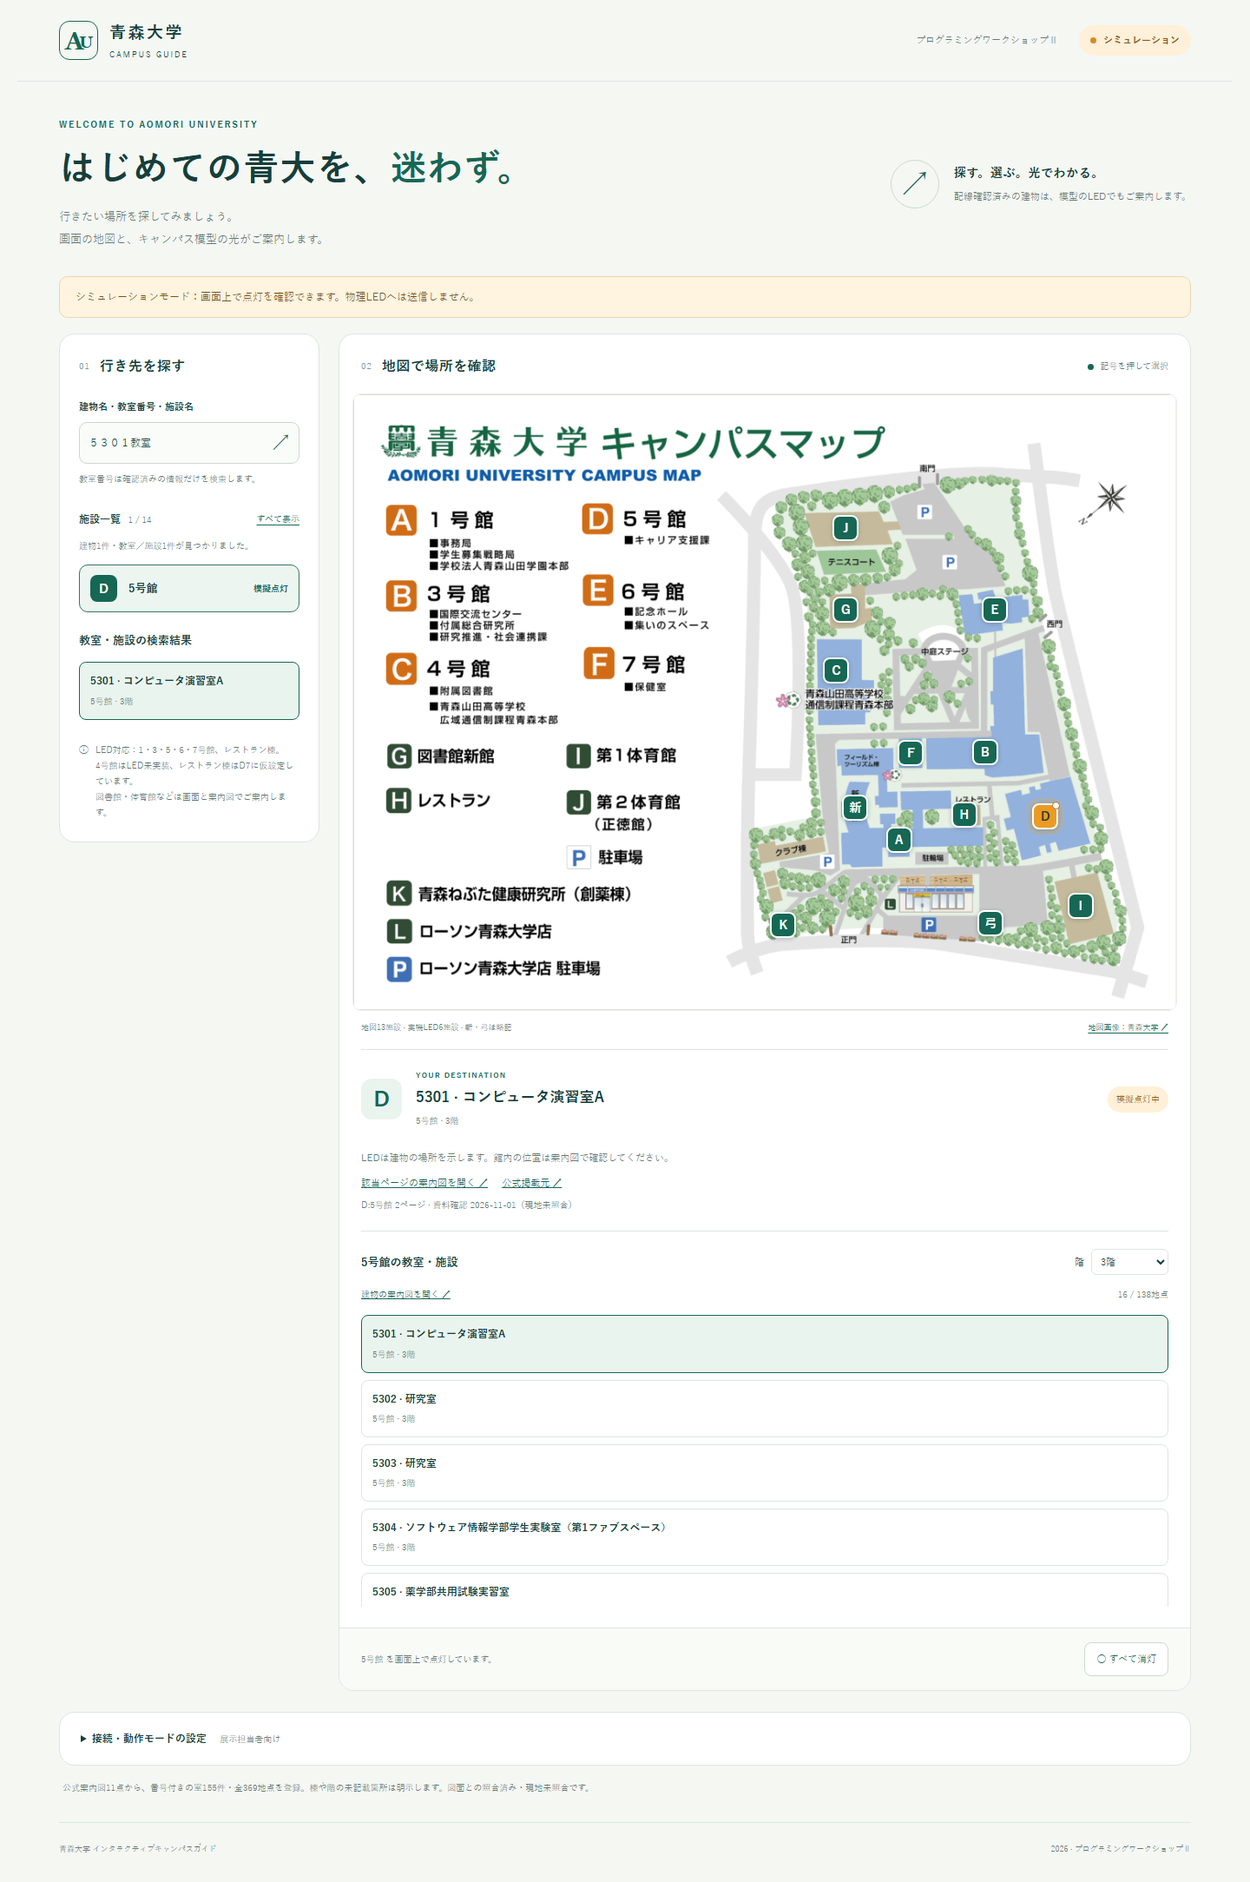
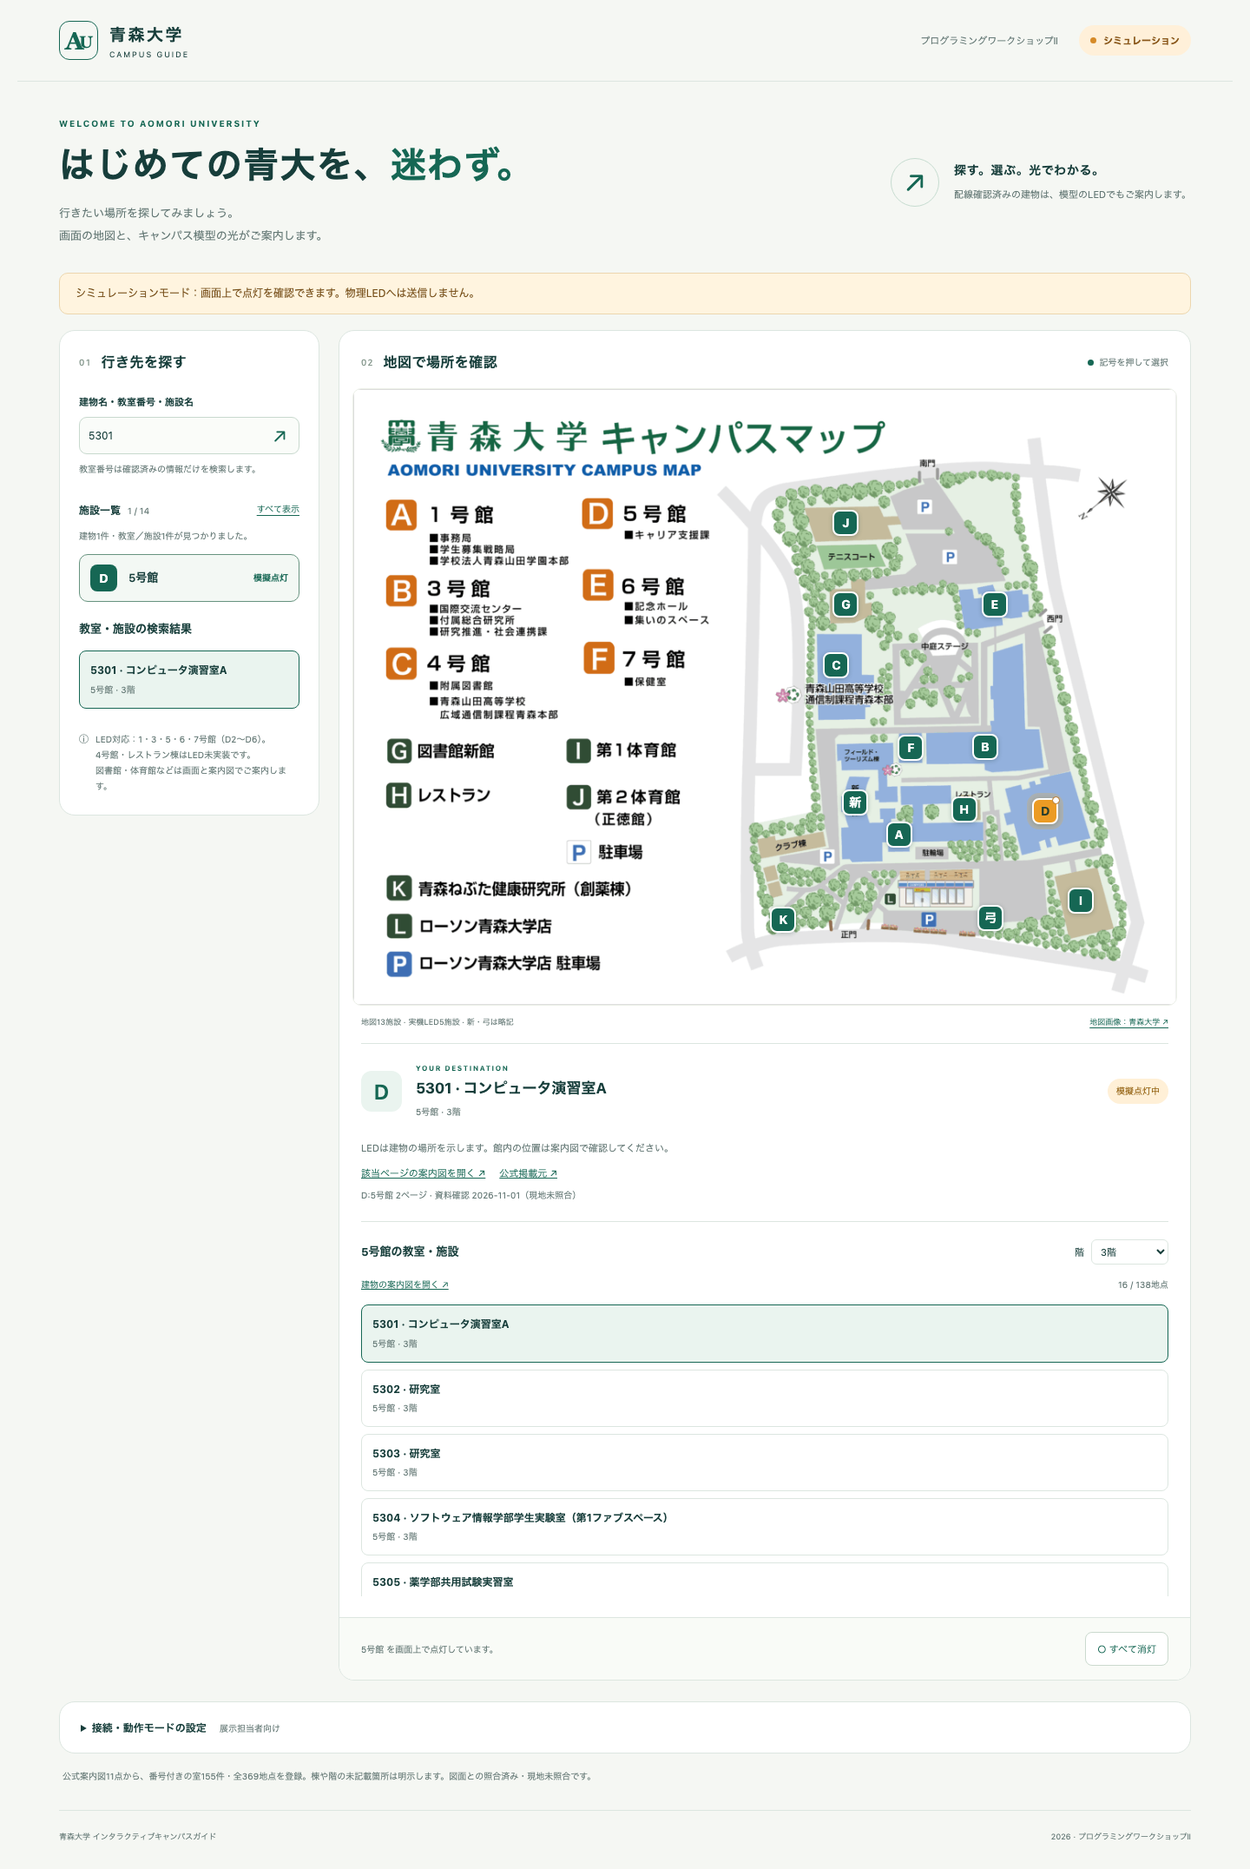
Align Uno firmware and guide with five wired campus buildings

diff --git a/docs/diagrams/campus-guide.html b/docs/diagrams/campus-guide.html
@@ -98,8 +98,9 @@ h1 { font-family: var(--font-display); font-weight: 700; font-size: clamp(22px, 
 /* group labels sit on the group's tint, not on a white tile: in the dark theme swap in the brand's own
    dark-theme logo (lt/dk pair), or give a mark with black parts a white plate */
 .g-label img.dk, .tile img.dk { display:none; }
-[data-theme="dark"] .g-label img.lt, [data-theme="dark"] .tile img.lt { display:none; }
-[data-theme="dark"] .g-label img.dk, [data-theme="dark"] .tile img.dk { display:block; }
+/* 白い台座では明暗テーマとも同じロゴを使用する。 */
+[data-theme="dark"] .g-label img.lt, [data-theme="dark"] .tile img.lt { display:block; }
+[data-theme="dark"] .g-label img.dk, [data-theme="dark"] .tile img.dk { display:none; }
 [data-theme="dark"] .g-label img.plate { background:#fff; border-radius:3px; padding:2px; width:18px; height:18px; }
 .group.ga { border:1.5px solid var(--color-g1); background: var(--color-g1-tint); }
 .group.ga-nested { border:1.5px dashed var(--color-g1-soft); }
@@ -198,7 +199,7 @@ path.aws { stroke: var(--color-ink); stroke-width:1.6; fill:none; }
 <path class="e" d="M756 460 H964" marker-end="url(#ar)"/>
 <text class="el a" x="860" y="452" text-anchor="middle">USB / 9600bps</text>
 <path class="e" d="M1000 540 V674" marker-end="url(#ar)"/>
-<text class="el a" x="1010" y="610">D2–D7</text>
+<text class="el a" x="1010" y="610">D2–D6</text>
 <!-- 同梱データの参照と、USBへ送信しないシミュレーションの分岐。 -->
 <path class="n" d="M200 674 V600 H450 V540" marker-end="url(#ar)"/>
 <text class="el" x="320" y="592" text-anchor="middle">PNG / PDF</text>
@@ -223,7 +224,7 @@ path.aws { stroke: var(--color-ink); stroke-width:1.6; fill:none; }
[8 lines of base64/hex data omitted]

diff --git a/docs/diagrams/campus-guide.source.html b/docs/diagrams/campus-guide.source.html
@@ -98,8 +98,9 @@ h1 { font-family: var(--font-display); font-weight: 700; font-size: clamp(22px, 
 /* group labels sit on the group's tint, not on a white tile: in the dark theme swap in the brand's own
    dark-theme logo (lt/dk pair), or give a mark with black parts a white plate */
 .g-label img.dk, .tile img.dk { display:none; }
-[data-theme="dark"] .g-label img.lt, [data-theme="dark"] .tile img.lt { display:none; }
-[data-theme="dark"] .g-label img.dk, [data-theme="dark"] .tile img.dk { display:block; }
+/* 白い台座では明暗テーマとも同じロゴを使用する。 */
+[data-theme="dark"] .g-label img.lt, [data-theme="dark"] .tile img.lt { display:block; }
+[data-theme="dark"] .g-label img.dk, [data-theme="dark"] .tile img.dk { display:none; }
 [data-theme="dark"] .g-label img.plate { background:#fff; border-radius:3px; padding:2px; width:18px; height:18px; }
 .group.ga { border:1.5px solid var(--color-g1); background: var(--color-g1-tint); }
 .group.ga-nested { border:1.5px dashed var(--color-g1-soft); }
@@ -198,7 +199,7 @@ path.aws { stroke: var(--color-ink); stroke-width:1.6; fill:none; }
 <path class="e" d="M756 460 H964" marker-end="url(#ar)"/>
 <text class="el a" x="860" y="452" text-anchor="middle">USB / 9600bps</text>
 <path class="e" d="M1000 540 V674" marker-end="url(#ar)"/>
-<text class="el a" x="1010" y="610">D2–D7</text>
+<text class="el a" x="1010" y="610">D2–D6</text>
 <!-- 同梱データの参照と、USBへ送信しないシミュレーションの分岐。 -->
 <path class="n" d="M200 674 V600 H450 V540" marker-end="url(#ar)"/>
 <text class="el" x="320" y="592" text-anchor="middle">PNG / PDF</text>
@@ -223,7 +224,7 @@ path.aws { stroke: var(--color-ink); stroke-width:1.6; fill:none; }
 <div class="node" style="left:404px;top:680px"><div class="tile"><img src="%%ICON_simulation%%" alt=""></div><div class="name"><span>シミュレーション</span></div><div class="role"><span>画面上で点灯を確認</span></div></div>
 <div class="node" style="left:654px;top:680px"><div class="tile"><img src="%%ICON_data%%" alt=""></div><div class="name"><span>JSONデータ</span></div><div class="role"><span>施設・教室・地図</span></div></div>
 <div class="node" style="left:934px;top:430px"><div class="tile"><img src="%%ICON_arduino%%" alt=""></div><div class="name"><span>Arduino Uno R3</span></div><div class="role"><span>Arduino / C++</span></div></div>
-<div class="node" style="left:934px;top:680px"><div class="tile"><img src="%%ICON_led%%" alt=""></div><div class="name"><span>建物LED ×6</span></div><div class="role"><span>選択した1施設のみ点灯</span></div></div>
+<div class="node" style="left:934px;top:680px"><div class="tile"><img src="%%ICON_led%%" alt=""></div><div class="name"><span>建物LED ×5</span></div><div class="role"><span>選択した1施設のみ点灯</span></div></div>
 <div class="node" style="left:64px;top:980px"><div class="tile"><img src="%%ICON_vscode%%" alt=""></div><div class="name"><span>VS Code</span></div><div class="role"><span>編集・開発</span></div></div>
 <div class="node" style="left:234px;top:980px"><div class="tile"><img src="%%ICON_platformio%%" alt=""></div><div class="name"><span>PlatformIO</span></div><div class="role"><span>ビルド・書込の選択肢</span></div></div>
 <div class="node" style="left:404px;top:980px"><div class="tile"><img src="%%ICON_arduino%%" alt=""></div><div class="name"><span>Arduino IDE</span></div><div class="role"><span>ビルド・書込の選択肢</span></div></div>

diff --git a/frontend/index.html b/frontend/index.html
@@ -40,13 +40,13 @@
         <div id="building-list" class="building-list"></div>
         <section id="room-results" class="room-results" hidden aria-labelledby="room-results-title"><h3 id="room-results-title">教室・施設の検索結果</h3><div id="search-room-list" class="room-list"></div></section>
         <p id="empty-results" class="empty-results" hidden>教室情報は未登録の場合があります。<br>建物名で検索してください。</p>
-        <div class="finder-note"><span aria-hidden="true">ⓘ</span><p>LED対応：1・3・5・6・7号館、レストラン棟。<br>4号館はLED未実装、レストラン棟はD7に仮設定しています。<br>図書館・体育館などは画面と案内図でご案内します。</p></div>
+        <div class="finder-note"><span aria-hidden="true">ⓘ</span><p>LED対応：1・3・5・6・7号館（D2〜D6）。<br>4号館・レストラン棟はLED未実装です。<br>図書館・体育館などは画面と案内図でご案内します。</p></div>
       </aside>
 
       <section class="panel map-panel" aria-labelledby="map-title">
         <div class="map-heading"><div class="section-heading"><span class="step">02</span><h2 id="map-title">地図で場所を確認</h2></div><span class="map-hint"><span class="legend-dot"></span>記号を押して選択</span></div>
         <div class="map-wrap"><div id="campus-map" class="campus-map"><img id="map-image" alt="青森大学の公式キャンパスマップ。A〜Kの各施設、新研究棟、弓道場を選択できます。施設一覧からも探せます。" width="1024" height="765" hidden><div id="markers"></div></div><p id="map-loading" class="map-loading">地図を読み込んでいます。</p></div>
-        <div class="map-credit"><span id="map-count">実機LED6施設</span><a id="map-source" href="https://www.aomori-u.ac.jp/access/" target="_blank" rel="noopener noreferrer">地図画像：青森大学 ↗</a></div>
+        <div class="map-credit"><span id="map-count">実機LED5施設</span><a id="map-source" href="https://www.aomori-u.ac.jp/access/" target="_blank" rel="noopener noreferrer">地図画像：青森大学 ↗</a></div>
         <div class="destination" aria-live="polite"><span id="destination-symbol" class="destination-symbol" aria-hidden="true">↗</span><div class="destination-copy"><p class="eyebrow">YOUR DESTINATION</p><h3 id="destination-name">行き先を選んでください</h3><p id="destination-detail">一覧または地図の記号から選択できます。</p></div><span id="led-indicator" class="led-indicator">未選択</span></div>
         <div class="destination-evidence" id="destination-evidence" hidden><p id="location-note"></p><a id="destination-plan" target="_blank" rel="noopener noreferrer">該当ページの案内図を開く ↗</a><a id="destination-source" target="_blank" rel="noopener noreferrer">公式掲載元 ↗</a><span id="destination-verified"></span></div>
         <p id="guide-note" class="guide-note" role="status" hidden></p>

diff --git a/frontend/static/app.js b/frontend/static/app.js
@@ -64,7 +64,7 @@ function renderState() {
   setText(banner, simulation
     ? "シミュレーションモード：画面上で点灯を確認できます。物理LEDへは送信しません。"
     : state.connected
-      ? `実機モード：LED設定済みの${wiredCount}施設を案内します。4号館はLED未実装、レストラン棟はD7に仮設定しています。`
+      ? `実機モード：LED設定済みの${wiredCount}施設を案内します。4号館・レストラン棟はLED未実装です。`
       : "実機モード：Arduinoは未接続です。施設の閲覧はできます。実機がない場合は下の設定でシミュレーションに切り替えてください。");
   document.querySelectorAll('input[name="mode"]').forEach((radio) => {
     radio.checked = radio.value === state.mode;
@@ -288,7 +288,8 @@ async function loadPorts() {
 async function loadMap() {
   const map = await api("/api/map");
   $("map-source").href = map.source_page;
-  setText($("map-count"), `地図${map.markers.length}施設 · 実機LED6施設 · 新・弓は略記`);
+  const wiredCount = buildings.filter((item) => item.pin !== null).length;
+  setText($("map-count"), `地図${map.markers.length}施設 · 実機LED${wiredCount}施設 · 新・弓は略記`);
   const img = $("map-image");
   img.addEventListener("load", () => {
     img.hidden = false;

diff --git a/tests/test_controller.py b/tests/test_controller.py
@@ -18,7 +18,7 @@ class FakeSerial:
     def __init__(self, **kwargs):
         self.is_open = True
         self.timeout = kwargs["timeout"]
-        self.responses = [b"READY:CAMPUS:3\n"]
+        self.responses = [b"READY:CAMPUS:4\n"]
         self.commands = []
         self.active = "0"
         self.bad_response = None
@@ -68,7 +68,7 @@ class ControllerTests(unittest.TestCase):
 
     def test_each_selection_then_off(self):
         self.connected()
-        for key in "ABDEFH":
+        for key in "ABDEF":
             self.assertEqual(self.controller.select(key)["active_building"], key)
         self.assertEqual(self.controller.select("0")["led_state"], "off")
 
@@ -158,15 +158,15 @@ class ControllerTests(unittest.TestCase):
     def test_concurrent_commands_do_not_mix_responses(self):
         self.connected()
         with ThreadPoolExecutor(max_workers=7) as pool:
-            results = list(pool.map(self.controller.select, "ABDEFH" * 3))
+            results = list(pool.map(self.controller.select, "ABDEF" * 3))
         self.assertTrue(all(r["connected"] for r in results))
-        self.assertEqual([r["active_building"] for r in results], list("ABDEFH" * 3))
+        self.assertEqual([r["active_building"] for r in results], list("ABDEF" * 3))
 
     def test_unconfirmed_pins_are_blocked_without_serial_write(self):
         device = self.connected()
         self.controller.select("A")
         commands = device.commands.copy()
-        for key in "C":
+        for key in "CH":
             with self.subTest(building=key):
                 with self.assertRaisesRegex(ValueError, "未確認"):
                     self.controller.select(key)
@@ -174,7 +174,7 @@ class ControllerTests(unittest.TestCase):
                 self.assertEqual(self.controller.snapshot()["active_building"], "A")
 
     def test_old_wiring_firmware_is_rejected(self):
-        for version in (1, 2):
+        for version in (1, 2, 3):
             with self.subTest(version=version):
                 device = FakeSerial(timeout=0.2)
                 device.responses = [f"READY:CAMPUS:{version}\r\n".encode()]
@@ -204,7 +204,7 @@ class ControllerTests(unittest.TestCase):
 
     def test_fragmented_boot_notification_is_reassembled(self):
         device = FakeSerial(timeout=0.2)
-        device.responses = [b"READY:CAMP", b"US:3\r\n"]
+        device.responses = [b"READY:CAMP", b"US:4\r\n"]
         self.factory.side_effect = None
         self.factory.return_value = device
         with unittest.mock.patch("backend.controller.time.monotonic", side_effect=range(8)):
@@ -212,7 +212,7 @@ class ControllerTests(unittest.TestCase):
 
     def test_overlong_boot_line_cannot_hide_a_valid_suffix(self):
         device = FakeSerial(timeout=0.2)
-        device.responses = [b"x" * 64, b"READY:CAMPUS:3\n"]
+        device.responses = [b"x" * 64, b"READY:CAMPUS:4\n"]
         self.factory.side_effect = None
         self.factory.return_value = device
         with unittest.mock.patch("backend.controller.time.monotonic", side_effect=range(8)):
@@ -222,7 +222,7 @@ class ControllerTests(unittest.TestCase):
 
     def test_valid_boot_line_after_oversized_noise_is_accepted(self):
         device = FakeSerial(timeout=0.2)
-        device.responses = [b"x" * 64, b"noise\n", b"READY:CAMPUS:3\r\n"]
+        device.responses = [b"x" * 64, b"noise\n", b"READY:CAMPUS:4\r\n"]
         self.factory.side_effect = None
         self.factory.return_value = device
         with unittest.mock.patch("backend.controller.time.monotonic", side_effect=range(8)):

diff --git a/tests/firmware/main.cpp b/tests/firmware/main.cpp
@@ -10,28 +10,30 @@ void send(const std::string &line) {
 }
 
 void expectOnly(int pin) {
-  for (int p = 2; p <= 8; ++p) assert(outputs[p] == (p == pin ? HIGH : LOW));
+  for (int p = 2; p <= 6; ++p) assert(outputs[p] == (p == pin ? HIGH : LOW));
+  assert(outputs[7] == HIGH && outputs[8] == HIGH);  // 未使用ピンは変更しない。
 }
 
 int main() {
+  outputs[7] = outputs[8] = HIGH;
   setup();
   assert(Serial.baud == 9600);
-  assert(Serial.output == "READY:CAMPUS:3\r\n");
-  for (int pin = 2; pin <= 7; ++pin) assert(modes[pin] == OUTPUT);
-  assert(modes[8] != OUTPUT);
+  assert(Serial.output == "READY:CAMPUS:4\r\n");
+  for (int pin = 2; pin <= 6; ++pin) assert(modes[pin] == OUTPUT);
+  assert(modes[7] != OUTPUT && modes[8] != OUTPUT);
   expectOnly(-1);
-  const std::string keys = "ABDEFH";
-  for (int i = 0; i < 6; ++i) {
+  const std::string keys = "ABDEF";
+  for (int i = 0; i < 5; ++i) {
     send(std::string(1, keys[i]) + "\n");
     assert(Serial.output == "OK:" + std::string(1, keys[i]) + "\r\n");
     expectOnly(i + 2);
   }
   send("?\n");
-  assert(Serial.output == "STATE:H\r\n");
+  assert(Serial.output == "STATE:F\r\n");
   send("A\r\n");
   assert(Serial.output == "OK:A\r\n");
   expectOnly(2);
-  for (const auto &line : {"C\n", "G\n", "AB\n", "\n", "A\rB\n", "\rA\n", "a\n"}) {
+  for (const auto &line : {"C\n", "H\n", "G\n", "AB\n", "\n", "A\rB\n", "\rA\n", "a\n"}) {
     send(line);
     assert(Serial.output == "ERR:INVALID\r\n");
     expectOnly(2);

diff --git a/tests/test_serial_integration.py b/tests/test_serial_integration.py
@@ -114,7 +114,7 @@ class SerialIntegrationTests(unittest.TestCase):
         self.assertEqual(state["led_state"], "off")
 
     def test_confirmed_buildings_and_off_through_api_and_real_serial(self):
-        for key, pin in zip("ABDEFH", range(2, 8)):
+        for key, pin in zip("ABDEF", range(2, 7)):
             with self.subTest(building=key, pin=pin):
                 response = self.client.post("/api/select", json={"building_id": key})
                 self.assertEqual(response.status_code, 200, response.json)
@@ -200,15 +200,15 @@ class SerialIntegrationTests(unittest.TestCase):
         self.assertPins()
 
     def test_repeated_selections_keep_ack_and_outputs_in_sync(self):
-        for key in "ABDEFH" * 24:
+        for key in "ABDEF" * 24:
             response = self.client.post("/api/select", json={"building_id": key})
             self.assertEqual(response.status_code, 200, response.json)
             self.assertEqual(response.json["status"]["active_building"], key)
-        self.assertPins(7)
+        self.assertPins(6)
 
     def test_unconfirmed_buildings_cannot_light_a_different_building(self):
         self.client.post("/api/select", json={"building_id": "D"})
-        for key in "C":
+        for key in "CH":
             with self.subTest(building=key):
                 response = self.client.post("/api/select", json={"building_id": key})
                 self.assertEqual(response.status_code, 400)

diff --git a/backend/catalog.py b/backend/catalog.py
@@ -8,7 +8,7 @@ from datetime import date
 from pathlib import Path
 
 # 画面だけで案内する建物を追加しても、ハードウェアの通信契約は変更しない。
-PIN_MAP = {"A": 2, "B": 3, "C": None, "D": 4, "E": 5, "F": 6, "H": 7}
+PIN_MAP = {"A": 2, "B": 3, "C": None, "D": 4, "E": 5, "F": 6, "H": None}
 
 
 def normalize(value: str) -> str:
@@ -130,7 +130,8 @@ class Catalog:
     def search(self, query: str):
         key = normalize(query)
         if not key:
-            return self.buildings, f"{len(self.buildings)}施設・{len(self.destinations)}地点を案内します。実機LEDは6施設です。"
+            wired_count = sum(pin is not None for pin in PIN_MAP.values())
+            return self.buildings, f"{len(self.buildings)}施設・{len(self.destinations)}地点を案内します。実機LEDは{wired_count}施設です。"
         destinations = self.search_destinations(query)
         symbol = self.by_id.get(key.upper())
         if symbol:

diff --git a/backend/controller.py b/backend/controller.py
@@ -84,12 +84,12 @@ class LedController:
             if not overlong:
                 pending.extend(chunk)
             if chunk.endswith(b"\n"):
-                if not overlong and pending in (b"READY:CAMPUS:3\n", b"READY:CAMPUS:3\r\n"):
+                if not overlong and pending in (b"READY:CAMPUS:4\n", b"READY:CAMPUS:4\r\n"):
                     return
                 # 長すぎる行はLFまで破棄する。途中の識別子だけを受理しない。
                 pending.clear()
                 overlong = False
-        self._fail("配線設定v3の起動通知を確認できません。最新スケッチの書き込み・9600bps・RESETを確認してください。")
+        self._fail("配線設定v4の起動通知を確認できません。最新スケッチの書き込み・9600bps・RESETを確認してください。")
 
     def _exchange(self, command):
         if self._serial is None or not self._serial.is_open:

diff --git a/firmware/CampusGuide/src/main.cpp b/firmware/CampusGuide/src/main.cpp
@@ -3,10 +3,10 @@
 // Arduino IDEとPlatformIOで共通の実装を使用する。
 
 namespace {
-// 1号館D2 / 3号館D3 / 5号館D4 / 6号館D5 / 7号館D6 / レストラン棟D7（仮設定）。
-// 4号館(C)はLED未実装のため制御しない。
-const char BUILDINGS[] = {'A', 'B', 'D', 'E', 'F', 'H'};
-const uint8_t LED_PINS[] = {2, 3, 4, 5, 6, 7};
+// 1号館D2 / 3号館D3 / 5号館D4 / 6号館D5 / 7号館D6。
+// 4号館(C)・レストラン棟(H)はLED未実装のため制御しない。
+const char BUILDINGS[] = {'A', 'B', 'D', 'E', 'F'};
+const uint8_t LED_PINS[] = {2, 3, 4, 5, 6};
 const uint8_t LED_COUNT = sizeof(LED_PINS) / sizeof(LED_PINS[0]);
 const unsigned long WATCHDOG_MS = 10000;
 char active = '0';
@@ -65,7 +65,7 @@ void setup() {
   setLeds('0');
   Serial.begin(9600);
   lastCommandAt = millis();
-  Serial.println(F("READY:CAMPUS:3"));
+  Serial.println(F("READY:CAMPUS:4"));
 }
 
 void loop() {
